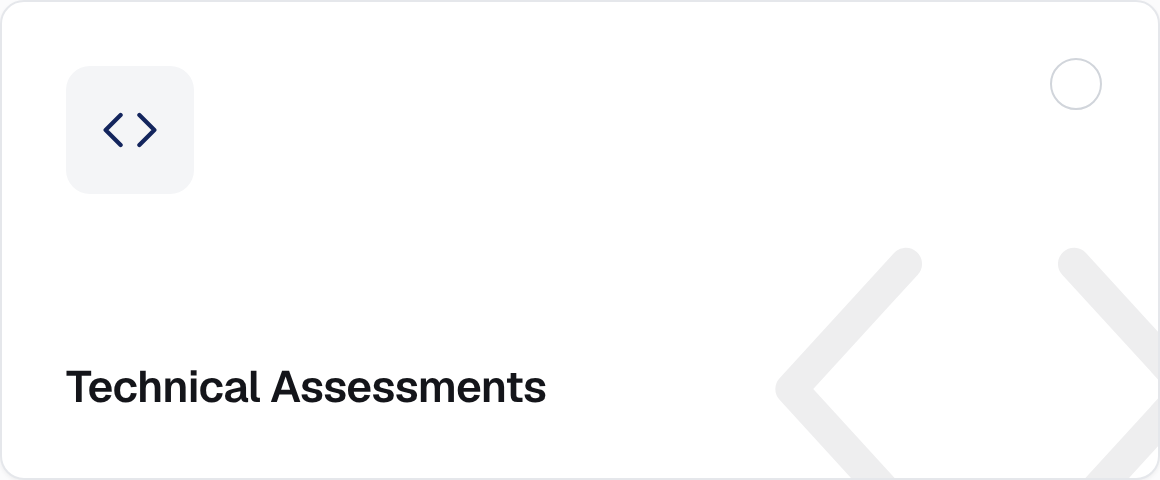
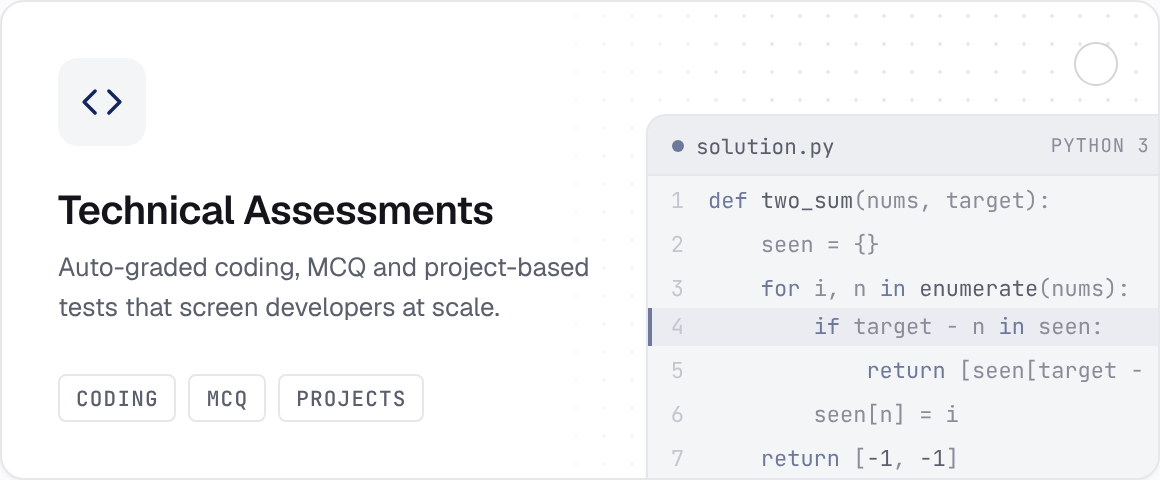
Redesign Technical Assessments card
Replace the reference-style layout with a richer card: description,
skill tags, and a code-editor preview that switches from a light idle
theme to the navy brand theme on selection, plus a test-result chip.
Uses Product Design System tokens (Geist, JetBrains Mono, navy primary).

Claude-Session: https://claude.ai/code/session_011WvSfdgMzjEweU38tRQQUC

diff --git a/technical-assessment-card.html b/technical-assessment-card.html
@@ -4,33 +4,70 @@
 <meta charset="UTF-8">
 <meta name="viewport" content="width=device-width, initial-scale=1.0">
 <title>Technical Assessments Card</title>
+<link rel="preconnect" href="https://fonts.googleapis.com">
+<link rel="preconnect" href="https://fonts.gstatic.com" crossorigin>
+<link href="https://fonts.googleapis.com/css2?family=JetBrains+Mono:wght@400;500;600&display=swap" rel="stylesheet">
 <style>
-  /* Fonts — Geist, loaded from the repo's local files (Product Design System: Geist runs the whole interface) */
+  /* Geist from the repo's local files — Product Design System: Geist runs the interface, JetBrains Mono carries code/data */
   @font-face { font-family: 'Geist'; src: url('Geist-Regular.ttf') format('truetype'); font-weight: 400; font-display: swap; }
   @font-face { font-family: 'Geist'; src: url('Geist-Medium.ttf') format('truetype'); font-weight: 500; font-display: swap; }
   @font-face { font-family: 'Geist'; src: url('Geist-SemiBold.ttf') format('truetype'); font-weight: 600; font-display: swap; }
 
-  /* Tokens — HackerEarth Product Design System */
+  /* ===== Tokens — HackerEarth Product Design System ===== */
   :root {
     --p-bg: #FBFBFC;
     --p-surface: #FFFFFF;
     --p-surface-2: #F4F5F7;
+    --p-sidebar: #060C1C;
+    --p-sidebar-950: #0A1430;
     --p-text: #14151A;
     --p-text-muted: #5B5E6B;
+    --p-text-faint: #8A8D99;
     --p-border: #E5E7EB;
     --p-border-strong: #D1D5DB;
     --p-primary: #13255D;
-    --p-primary-hover: #0F1D4B;
     --p-ring: #13255D;
+    --p-lime: #C7F252;
+    --p-success: #059669;
+    --p-success-bg: #D1FAE5;
     --p-font: 'Geist', system-ui, sans-serif;
+    --p-mono: 'JetBrains Mono', ui-monospace, monospace;
+    --p-radius-sm: 4px;
+    --p-radius-md: 8px;
     --p-radius-lg: 12px;
     --p-shadow-sm: 0 1px 2px rgba(20,21,26,0.05);
+    --p-shadow-md: 0 4px 12px -2px rgba(20,21,26,0.10), 0 2px 6px -2px rgba(20,21,26,0.06);
+    --p-shadow-lg: 0 12px 28px -8px rgba(20,21,26,0.16);
 
-    /* Derived for this card */
-    --sel-bg: color-mix(in srgb, var(--p-primary) 5%, var(--p-surface));
-    --sel-ring: color-mix(in srgb, var(--p-primary) 10%, transparent);
-    --motif-on: color-mix(in srgb, var(--p-primary) 11%, transparent);
-    --motif-off: color-mix(in srgb, var(--p-text) 7%, transparent);
+    --sel-ring: color-mix(in srgb, var(--p-primary) 12%, transparent);
+  }
+
+  /* Editor themes — light (idle) and navy (selected, brand secondary palette for syntax) */
+  .type-card {
+    --ed-bg: var(--p-surface-2);
+    --ed-bar: #ECEEF2;
+    --ed-line: var(--p-border);
+    --ed-file: var(--p-text-muted);
+    --ed-meta: var(--p-text-faint);
+    --syn-kw: color-mix(in srgb, var(--p-primary) 60%, var(--p-surface-2));
+    --syn-fn: var(--p-text-muted);
+    --syn-num: var(--p-text-muted);
+    --syn-txt: var(--p-text-faint);
+    --syn-dim: #C4C7CF;
+    --hl-bg: rgba(19,37,93,0.04);
+  }
+  .type-card[aria-checked="true"] {
+    --ed-bg: var(--p-sidebar);
+    --ed-bar: var(--p-sidebar-950);
+    --ed-line: rgba(255,255,255,0.06);
+    --ed-file: rgba(255,255,255,0.72);
+    --ed-meta: rgba(255,255,255,0.45);
+    --syn-kw: #9FB1FE;
+    --syn-fn: #C7B4F8;
+    --syn-num: #C7F252;
+    --syn-txt: rgba(255,255,255,0.82);
+    --syn-dim: rgba(255,255,255,0.28);
+    --hl-bg: rgba(159,177,254,0.08);
   }
 
   * { box-sizing: border-box; margin: 0; padding: 0; }
@@ -46,16 +83,13 @@
     padding: 16px;
   }
 
-  /* ===== Assessment type card · 580 × 240 ===== */
+  /* ===== Card · 580 × 240 ===== */
   .type-card {
     position: relative;
     width: 580px;
     height: 240px;
     max-width: 100%;
-    padding: 32px;
-    display: flex;
-    flex-direction: column;
-    justify-content: space-between;
+    padding: 28px;
     background: var(--p-surface);
     border: 1.5px solid var(--p-border);
     border-radius: var(--p-radius-lg);
@@ -65,103 +99,226 @@
     text-align: left;
     font: inherit;
     color: inherit;
-    transition: border-color .15s, background-color .15s, box-shadow .15s;
+    transition: border-color .18s, box-shadow .18s;
   }
-  .type-card:hover { border-color: var(--p-border-strong); }
+  .type-card::before {            /* faint dot grid behind the editor */
+    content: '';
+    position: absolute;
+    inset: 0 0 0 46%;
+    background-image: radial-gradient(color-mix(in srgb, var(--p-primary) 14%, transparent) 1px, transparent 1px);
+    background-size: 14px 14px;
+    -webkit-mask-image: linear-gradient(90deg, transparent, #000 40%);
+            mask-image: linear-gradient(90deg, transparent, #000 40%);
+    opacity: .7;
+    pointer-events: none;
+  }
+  .type-card:hover { border-color: var(--p-border-strong); box-shadow: var(--p-shadow-md); }
   .type-card:focus-visible { outline: none; box-shadow: 0 0 0 3px color-mix(in srgb, var(--p-ring) 15%, transparent); }
+  .type-card[aria-checked="true"] { border-color: var(--p-primary); box-shadow: 0 0 0 3px var(--sel-ring), var(--p-shadow-md); }
 
-  .type-card[aria-checked="true"] {
-    background: var(--sel-bg);
-    border-color: var(--p-primary);
-    box-shadow: 0 0 0 3px var(--sel-ring);
+  /* ===== Left column ===== */
+  .content {
+    position: relative;
+    z-index: 2;
+    width: 268px;
+    height: 100%;
+    display: flex;
+    flex-direction: column;
   }
 
-  /* Icon tile */
   .tile {
-    position: relative;
-    z-index: 1;
-    width: 64px;
-    height: 64px;
-    border-radius: var(--p-radius-lg);
+    width: 44px;
+    height: 44px;
+    border-radius: 10px;
     display: grid;
     place-items: center;
     background: var(--p-surface-2);
     color: var(--p-primary);
-    transition: background-color .15s, color .15s;
+    transition: background-color .18s, color .18s;
   }
-  .type-card[aria-checked="true"] .tile { background: var(--p-primary); color: #FFFFFF; }
-  .tile svg { width: 30px; height: 30px; }
+  .tile svg { width: 22px; height: 22px; }
+  .type-card[aria-checked="true"] .tile { background: var(--p-primary); color: #fff; }
 
-  /* Radio / check indicator */
+  .title {
+    margin-top: 20px;
+    font-size: 20px;
+    line-height: 1.25;
+    font-weight: 600;
+    letter-spacing: -0.3px;
+  }
+  .desc {
+    margin-top: 6px;
+    font-size: 13px;
+    line-height: 1.5;
+    color: var(--p-text-muted);
+  }
+
+  .tags { margin-top: auto; display: flex; gap: 6px; }
+  .tag {
+    font-family: var(--p-mono);
+    font-size: 10.5px;
+    font-weight: 500;
+    letter-spacing: .6px;
+    text-transform: uppercase;
+    color: var(--p-text-muted);
+    padding: 4px 8px;
+    border: 1px solid var(--p-border);
+    border-radius: var(--p-radius-sm);
+    background: var(--p-surface);
+    transition: color .18s, border-color .18s, background-color .18s;
+  }
+  .type-card[aria-checked="true"] .tag {
+    color: var(--p-primary);
+    border-color: color-mix(in srgb, var(--p-primary) 18%, transparent);
+    background: color-mix(in srgb, var(--p-primary) 4%, var(--p-surface));
+  }
+
+  /* ===== Selection indicator ===== */
   .indicator {
     position: absolute;
-    top: 28px;
-    right: 28px;
-    width: 26px;
-    height: 26px;
+    z-index: 3;
+    top: 20px;
+    right: 20px;
+    width: 22px;
+    height: 22px;
     border-radius: 50%;
     border: 1.5px solid var(--p-border-strong);
     background: var(--p-surface);
     display: grid;
     place-items: center;
-    transition: background-color .15s, border-color .15s;
+    transition: background-color .18s, border-color .18s, box-shadow .18s;
   }
-  .indicator svg { width: 14px; height: 14px; opacity: 0; transition: opacity .15s; }
+  .indicator svg { width: 12px; height: 12px; opacity: 0; transform: scale(.6); transition: opacity .18s, transform .18s; }
   .type-card[aria-checked="true"] .indicator { background: var(--p-primary); border-color: var(--p-primary); box-shadow: 0 0 0 3px var(--sel-ring); }
-  .type-card[aria-checked="true"] .indicator svg { opacity: 1; }
+  .type-card[aria-checked="true"] .indicator svg { opacity: 1; transform: none; }
 
-  /* Title */
-  .title {
-    position: relative;
-    z-index: 1;
-    font-size: 22px;
-    line-height: 1.25;
-    font-weight: 600;
-    letter-spacing: -0.3px;
-    color: var(--p-text);
-  }
-
-  /* Background motif — oversized code chevrons bleeding off the bottom-right */
-  .motif {
+  /* ===== Editor preview (bleeds off the bottom-right) ===== */
+  .editor {
     position: absolute;
-    right: -28px;
-    bottom: -36px;
-    width: 224px;
-    height: 161px;
-    color: var(--motif-off);
-    pointer-events: none;
-    transition: color .15s;
+    z-index: 1;
+    left: 322px;
+    top: 56px;
+    width: 290px;
+    height: 220px;
+    border-radius: 10px 0 0 0;
+    background: var(--ed-bg);
+    border: 1px solid var(--ed-line);
+    border-right: 0;
+    border-bottom: 0;
+    box-shadow: var(--p-shadow-sm);
+    overflow: hidden;
+    font-family: var(--p-mono);
+    transition: background-color .25s, box-shadow .25s, transform .25s;
   }
-  .type-card[aria-checked="true"] .motif { color: var(--motif-on); }
+  .type-card[aria-checked="true"] .editor { box-shadow: var(--p-shadow-lg); }
+  .editor * { transition: color .25s, background-color .25s, border-color .25s; }
+  .type-card:hover .editor { transform: translateY(-4px); }
+
+  .ed-bar {
+    height: 30px;
+    display: flex;
+    align-items: center;
+    gap: 8px;
+    padding: 0 12px;
+    background: var(--ed-bar);
+    border-bottom: 1px solid var(--ed-line);
+    font-size: 10.5px;
+    color: var(--ed-file);
+  }
+  .ed-bar .file { display: flex; align-items: center; gap: 6px; }
+  .ed-bar .file::before { content: ''; width: 6px; height: 6px; border-radius: 50%; background: var(--syn-kw); }
+  .ed-bar .lang {
+    margin-left: auto;
+    font-size: 9.5px;
+    letter-spacing: .5px;
+    text-transform: uppercase;
+    color: var(--ed-meta);
+    margin-right: 26px;
+  }
+
+  .code { padding: 10px 0; font-size: 11px; line-height: 19px; color: var(--syn-txt); white-space: pre; }
+  .code .ln { display: inline-block; width: 30px; padding-right: 12px; text-align: right; color: var(--syn-dim); }
+  .code .hl { display: block; background: var(--hl-bg); box-shadow: inset 2px 0 0 var(--syn-kw); }
+  .kw { color: var(--syn-kw); }
+  .fn { color: var(--syn-fn); }
+  .nu { color: var(--syn-num); }
+  .cursor { display: inline-block; width: 6px; height: 13px; vertical-align: -2px; background: var(--syn-kw); animation: blink 1.1s steps(1) infinite; }
+  @keyframes blink { 50% { opacity: 0; } }
+
+  /* Floating test result chip */
+  .result {
+    position: absolute;
+    z-index: 2;
+    left: 300px;
+    bottom: 18px;
+    display: flex;
+    align-items: center;
+    gap: 8px;
+    padding: 7px 11px 7px 8px;
+    background: var(--p-surface);
+    border: 1px solid var(--p-border);
+    border-radius: var(--p-radius-md);
+    box-shadow: var(--p-shadow-md);
+    font-size: 12px;
+    font-weight: 500;
+    color: var(--p-text);
+    white-space: nowrap;
+    opacity: 0;
+    transform: translateY(6px);
+    transition: opacity .25s .05s, transform .25s .05s;
+  }
+  .type-card[aria-checked="true"] .result { opacity: 1; transform: none; }
+  .result .ok { width: 18px; height: 18px; border-radius: 50%; background: var(--p-success); display: grid; place-items: center; }
+  .result .ok svg { width: 10px; height: 10px; }
+  .result .num { font-family: var(--p-mono); font-weight: 600; color: var(--p-success); }
+
+  @media (prefers-reduced-motion: reduce) {
+    .cursor { animation: none; }
+    .type-card *, .type-card { transition: none !important; }
+  }
 </style>
 </head>
 <body>
 
   <button class="type-card" type="button" role="radio" aria-checked="true" aria-label="Technical Assessments">
-    <span class="tile" aria-hidden="true">
-      <!-- code-simple, Phosphor regular geometry -->
-      <svg viewBox="0 0 32 32" fill="none" stroke="currentColor" stroke-width="2.25" stroke-linecap="round" stroke-linejoin="round">
-        <polyline points="11,8 3,16 11,24"/>
-        <polyline points="21,8 29,16 21,24"/>
-      </svg>
+    <span class="content">
+      <span class="tile" aria-hidden="true">
+        <svg viewBox="0 0 32 32" fill="none" stroke="currentColor" stroke-width="2.5" stroke-linecap="round" stroke-linejoin="round">
+          <polyline points="11,8 3,16 11,24"/>
+          <polyline points="21,8 29,16 21,24"/>
+        </svg>
+      </span>
+      <span class="title">Technical Assessments</span>
+      <span class="desc">Auto-graded coding, MCQ and project-based tests that screen developers at scale.</span>
+      <span class="tags">
+        <span class="tag">Coding</span>
+        <span class="tag">MCQ</span>
+        <span class="tag">Projects</span>
+      </span>
     </span>
 
     <span class="indicator" aria-hidden="true">
-      <svg viewBox="0 0 16 16" fill="none" stroke="#FFFFFF" stroke-width="2.4" stroke-linecap="round" stroke-linejoin="round">
-        <polyline points="3.5,8.5 6.5,11.5 12.5,4.5"/>
-      </svg>
+      <svg viewBox="0 0 16 16" fill="none" stroke="#fff" stroke-width="2.6" stroke-linecap="round" stroke-linejoin="round"><polyline points="3.5,8.5 6.5,11.5 12.5,4.5"/></svg>
     </span>
 
-    <span class="title">Technical Assessments</span>
+    <span class="editor" aria-hidden="true">
+      <span class="ed-bar"><span class="file">solution.py</span><span class="lang">Python 3</span></span>
+<span class="code"><span class="ln">1</span><span class="kw">def</span> <span class="fn">two_sum</span>(nums, target):
+<span class="ln">2</span>    seen = {}
+<span class="ln">3</span>    <span class="kw">for</span> i, n <span class="kw">in</span> <span class="fn">enumerate</span>(nums):
+<span class="hl"><span class="ln">4</span>        <span class="kw">if</span> target - n <span class="kw">in</span> seen:</span><span class="ln">5</span>            <span class="kw">return</span> [seen[target - n], i]
+<span class="ln">6</span>        seen[n] = i<span class="cursor"></span>
+<span class="ln">7</span>    <span class="kw">return</span> [<span class="nu">-1</span>, <span class="nu">-1</span>]</span>
+    </span>
 
-    <svg class="motif" viewBox="0 0 250 180" fill="none" stroke="currentColor" stroke-width="18" stroke-linecap="round" stroke-linejoin="round" aria-hidden="true">
-      <polyline points="78,20 14,90 78,160"/>
-      <polyline points="172,20 236,90 172,160"/>
-    </svg>
+    <span class="result" aria-hidden="true">
+      <span class="ok"><svg viewBox="0 0 16 16" fill="none" stroke="#fff" stroke-width="2.8" stroke-linecap="round" stroke-linejoin="round"><polyline points="3.5,8.5 6.5,11.5 12.5,4.5"/></svg></span>
+      <span><span class="num">12/12</span> test cases passed</span>
+    </span>
   </button>
 
   <script>
-    // Click / Space / Enter toggles the selected state so both states can be previewed.
+    // Click / Space / Enter toggles selection so both states can be previewed.
     document.querySelectorAll('.type-card').forEach(function (card) {
       card.addEventListener('click', function () {
         card.setAttribute('aria-checked', card.getAttribute('aria-checked') === 'true' ? 'false' : 'true');
